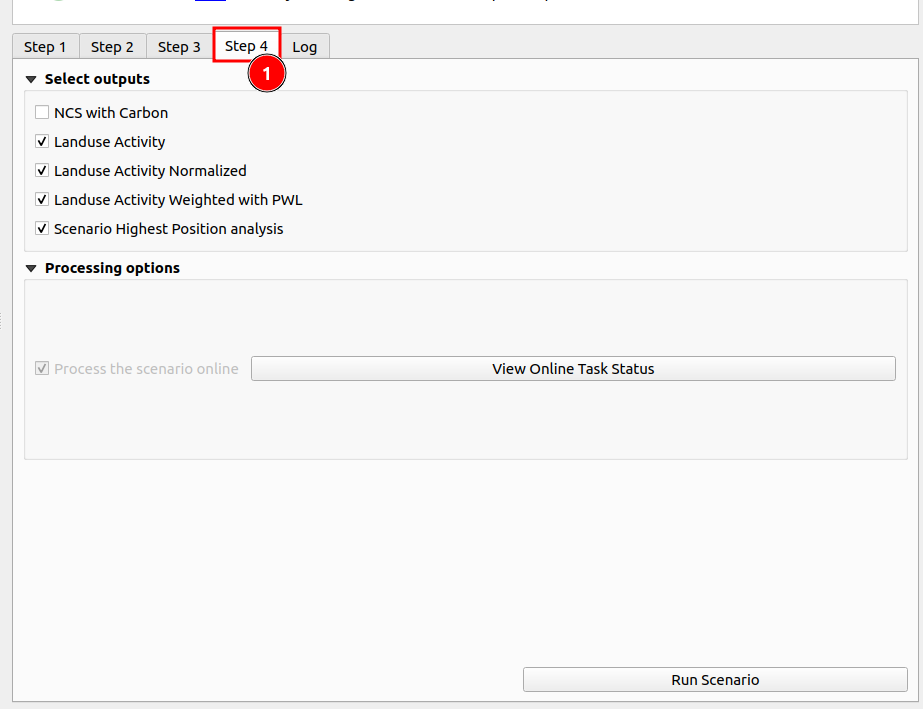
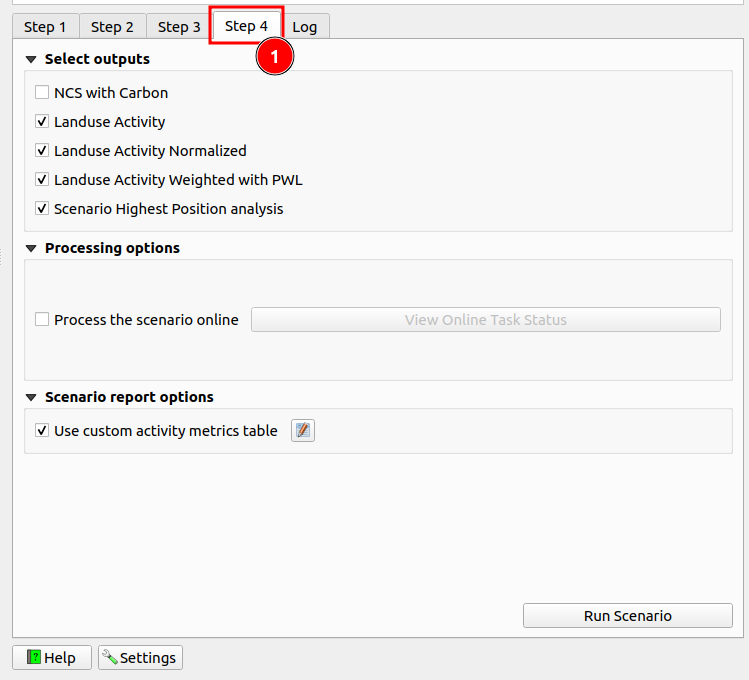
Add metrics docs

diff --git a/docs/user/manual/step-4.md b/docs/user/manual/step-4.md
@@ -48,7 +48,170 @@ license: This program is free software; you can redistribute it and/or modify it
    
     *If the user has previously selected `Online defaults`, this option will be selected automatically.*
 
-4. **Run Scenario:** 
+4. **Scenario report options:** Below are the benefits of the scenario report options.
+
+    * The Metrics Generator enables plugin users to incorporate additional metrics or calculations for each activity. It includes automated expressions that assist in calculating measures such as irrecoverable carbon, financial metrics like the net present value (NPV) of each activity, and other weighting measures such as jobs per hectare.
+
+    * The tool leverages the full functionality of the expression builder, allowing users to create fully customised expressions based on the available project variables.
+
+    * The Expression Builder within the Metrics Generator has been enhanced with a CPLUS library, which offers automated calculations for irrecoverable carbon, PWL measures, and NPV. These features come with helpful guidance for their use. It is also important to reference the variables list when creating custom options.
+
+    >Note: Please note that expressions can be applied on a column-by-column basis or can be cell-specific, providing full granularity for the measures and metrics associated with each activity.
+
+    ![Scenario Reports Options](./img/step-4-7.png)
+
+    1 **Use custom activity metrics table:** Users must check the checkbox to enable this option. After doing so, they need to click on the ![Builder Icon](./img/step-4-8.png) icon to access the metrics table. 
+
+    Users are required to follow these steps to create a custom activity metrics table.
+
+     **Step 1:**
+
+    ![Activity Metrics Wizard](./img/step-4-9.png)
+
+    1 **x:** Close the wizard.
+
+    2 **Help:** Provides the qgis help documentation.
+
+    3 **Back:** Go back to the previous step (Disabled in the first step).
+
+    4 **Next:** Proceed to the next step.
+
+    5 **Cancel:** Cancel the current operation.
+
+    **Step 2:**
+
+    ![Activity Metrics Wizard 2](./img/step-4-10.png)
+
+    1 **Columns:** Users can add or remove columns from the table.
+
+    * **![Add Column](./img/step-4-11.png):** Allows users to add column to the table.
+
+        ![Set Column Name](./img/step-4-12.png)
+
+        * **x:** Close the dialog box.
+        * **Input Field:** Users are required to enter the column name in this input field.
+        * **Cancel:** Cancel the process.
+        * **OK:** Users can complete the add column process by clicking on this button. If users click on this button without filling the column name then the process will be complete without any column being added.
+
+            ![Column Table 1](./img/step-4-14.png)
+        
+        * If users fill the column name which is already available in the table then the users will encountered with the error `There is already existing column name`.
+
+            ![Duplicate Column Error](./img/step-4-13.png)
+
+    * **![Remove Column](./img/step-4-15.png):** Allows users to remove column from the table. Users are required to select the column which they want to remove from the table and then click on this button to remove it from the table.
+
+        ![Column Table 2](./img/step-4-16.png)
+
+    * **![Up](./img/step-4-17.png) and ![Down](./img/step-4-18.png):** Allows users to reorder the columns in the table. Select the column from the table and then click on the either any option to reorder the column.
+
+    ![Reorder Column](./img/step-4-19.png)
+
+    2 **Properties:** This contains the properties of the column.
+    
+    ![Properties](./img/step-4-20.png) 
+
+    * **Header label:** The default header name is based on the selected column. Users can change it to any name they prefer, but the field must be filled in. If the `Header label` is empty then the users will encounter with the error `header label is empty`.
+
+        ![Empty Header Label Error](./img/step-4-21.png) 
+    
+    * **Metric:** Users can select the metric from the dropdown list. User can clear the metric filed by clicking on the `x` mark available inside the input field and can add their own custom metric.
+
+        ![Metric Dropdown](./img/step-4-22.png) 
+
+    * **Create Custom Metric:** Users can create their own custom metric by clicking on the `ε epsilon` button located at the right side of the `Metric` input field.
+
+        ![Epsilon button](./img/step-4-23.png) 
+
+        * This will open the `Column Expression Builder` dialog box.
+
+        ![Column Expression Builder](./img/step-4-24.png)
+
+        1 **Expression:** Users can access the expression tab by clicking here.
+
+        2 **Input Area:** User can enter the expression in this input area.
+
+        3 **Operators and symbols:** Users can access the operators and symbols from here.
+
+        4 **Functions:** Users can choose the function that their expression is related to.
+
+        5 **Details Section:** This section shows the details of the expression like how users can fill the expression, what are the available arguments and operators etc.
+
+        * For Example:
+
+            ![Column Expression Builder 1](./img/step-4-25.png)
+
+            1 **Input Area:** Contains the expression we have entered.
+
+            2 **Functions:** For example, we have selected the `CASE` from `Conditionals`.
+
+            3 **Details Section:** This section shows the details of the expression like how users can fill the expression, what are the available arguments and operators etc.
+
+            4 **Preview:** This section displays the feature details. In our case, we have entered the incorrect input without following the proper syntax, resulting in an error in the preview.
+
+        * After filling all the details users are required to click on the `OK` button to complete the process or they can click on the `Cancel` button to cancel the process.
+
+        * When users click on the `Cancel` button a pop up dialog box will appear asking for confirmation to cancel the process.
+
+            ![Expression Edited](./img/step-4-36.png)
+
+            * **✅:** Users can check this checkbox to remember their choice and avoid showing this message again in the future.
+
+            * **No:** Users can click on the `No` button to go back to the editing the process.
+
+            * **Discard changes:** Users can click on this button to complete the cancel process. This will discard the changes and close the window.
+
+    3 **Formatting:** This contains the formatting options for the column.
+
+    ![Formatting](./img/step-4-26.png)
+
+    * **Horizontal alignment:** Users can select the horizontal alignment of the column from the dropdown list, choosing between left, center, right, or justify alignment.
+
+    * **Format as number:** Users are required to check the checkbox to use this option, then users will be use the `Customise...` button to customise the number format.
+
+        ![Number Formatter ](./img/step-4-27.png)
+
+        1 **Number Format:** Users can use this button to go back to the previous window.
+
+        2 **Category:** Users can select the category of the number format from the dropdown list.
+
+        ![Formatting Category](./img/step-4-28.png)
+
+        3 **Format:** Users can select the format of the number from the dropdown list. (This field varies depending on the selected category.)
+
+        4 **Decimal places:** Users can enter the number of decimal places to be displayed. (This field varies depending on the selected category.)
+
+        5 Show trailing zeros: Users can select this checkbox to display trailing zeros. (This field varies depending on the selected category.)
+
+        6 **Sample:** Users can see the sample of the number format selected.
+
+    **Step 3:**
+    
+    ![Activity Metrics Wizard 3](./img/step-4-29.png)
+
+    1 **Customise activity metric:** Checking this checkbox allows users to customise the metric of a specific cell.
+
+    2 **Customise cell metric:** Double-clicking on a cell converts it into a dropdown menu. Users can then select the `<Cell metrics>` option from the menu, enabling them to customise the cell metric. 
+
+    ![Cell Metric Dropdown Menu](./img/step-4-30.png)
+
+    * This will open the `Activity Expression Builder` window.
+
+        ![Activity Expression Builder](./img/step-4-31.png)
+
+    Please check the `Step 2` to know more about how to customise the metric.
+
+    * If users try to proceed without defining the `<Cell-metric>` then users will encountered with an error message.
+
+        ![Undefined Error](./img/step-4-32.png)
+
+    **Step 4:**
+
+    This is the last step where user review all the columns and metrics they have defined. After clicking on the `Finish` button will complete the process and redirected to the `Qgis plugin Step 4` from where users can generate the report with the `custom activity metrics table`.
+
+    ![Activity Metrics Wizard 4](./img/step-4-33.png)
+
+5. **Run Scenario:** 
 
     After checking or unchecking the checkbox, click on the `Run Scenario` button to execute the scenario and generate the report. 
 
@@ -80,5 +243,19 @@ license: This program is free software; you can redistribute it and/or modify it
     Click on the `View Task Online button` to view the task status.
 
     ![Processing Dialog](img/step-4-5.png) 
+
+## Report without custom metrics table
+
+* Users can see in the report there is no custom metrics table.
+
+![Report Without Custom Metrics Table ](img/step-4-35.png)
+
+## Report with custom metrics table
+
+* Users can see in the report that the custom metrics table is included.
+
+![Custom Metrics Table Report](img/step-4-34.png)
+
+
 
 Click [here](logs.md) to explore the log section.

diff --git a/docs/user/guide/step-4.md b/docs/user/guide/step-4.md
@@ -18,13 +18,13 @@ Click on the 1⃣ `Step 4` option, to go to Step 4.
 
 >NOTE: User need to register and login with a Trends.Earth account to use the online API for processing with CPLUS.
 
-## Saving Outputs
+## Saving outputs
 
 **Saving Outputs:** In `Step 4`, choose which results you want to save. Each option represents data for your report. Select an option to save it to your computer for later use. Not selecting an option means it is only available for your current session. This helps optimise memory usage. Choose wisely to make your computer run more efficiently!
 
 ![Saving Outputs](./img/step4-2.png)
 
-## Processing Options
+## Processing options
 
 **Process the scenario online:** By default, this option is off. When selected, the scenario is sent to a remote server via the Internet for processing. This enables real-time analysis using the server's resources. It is useful for quick results or complex data that may strain local devices. However, it needs a stable internet connection.
 
@@ -32,11 +32,127 @@ Click on the 1⃣ `Step 4` option, to go to Step 4.
 
 If `Online defaults` is choosen previously then this option will be automatically selected.
 
+## Scenario report  options
+
+Benefits of custom activity metrics table:
+
+* The Metrics Generator enables plugin users to incorporate additional metrics or calculations for each activity. It includes automated expressions that assist in calculating measures such as irrecoverable carbon, financial metrics like the net present value (NPV) of each activity, and other weighting measures such as jobs per hectare.
+
+* The tool leverages the full functionality of the expression builder, allowing users to create fully customised expressions based on the available project variables.
+
+* The Expression Builder within the Metrics Generator has been enhanced with a CPLUS library, which offers automated calculations for irrecoverable carbon, PWL measures, and NPV. These features come with helpful guidance for their use. It is also important to reference the variables list when creating custom options.
+
+>Note: Please note that expressions can be applied on a column-by-column basis or can be cell-specific, providing full granularity for the measures and metrics associated with each activity.
+
+### How to use custom activity metrics table?
+
+To use the `custom activity metrics table`, you need to check the 1⃣ `checkbox`, after which you can access the 2⃣ `edit` option which allows you to create custom metrics table.
+
+![Scenario Report Options](./img/step4-9.png)
+
+After clicking on the edit option user will receive the following window.
+
+![Custom Metrics Table](./img/step4-10.png)
+
+* You can follow these steps to create the custom metrics table:
+
+#### Step 1:
+
+The first step in creating the custom metrics table provides an 1⃣ `example` demonstrating that you can use different expressions for each cell. It also includes a 2⃣ `Next` button, which allows you to proceed to the next step, and a 3⃣ `Cancel` button, which enables you to exit the process.
+
+![Activity Metrics Wizard 1](./img/step4-11.png)
+
+#### Step 2:
+
+* This step allow you to add 1⃣ `Columns` and specify their corresponding 2⃣ `Properties`.
+
+![Activity Metrics Wizard 2](./img/step4-12.png)
+
+* Columns
+    * Add Column 
+
+        - Click on the ![Add Icon](./img/step4-13.png) icon to add a new column. This will open a `Set Column Name` dialog box where you can enter the name of the column.
+
+        - Enter the column name and click on the `OK` button to add it to the `Columns` table.
+
+            ![Set Column Name](./img/step4-14.png)
+
+        - If the column name already exists you will receive the following error.
+
+            ![Duplicate Column Name](./img/step4-15.png)
+
+    * Remove Column
+
+        - Click on the ![Remove Icon](./img/step4-16.png) icon to remove the selected column.
+
+    * Change Column Order
+
+        - Click on the ![Move Up Icon](./img/step4-17.png) icon to move the selected column up in the list and click on the ![Move Down Icon](./img/step4-18.png) icon to move the selected column down in the list.
+
+* Properties
+
+    * **Header label:** The default header name is based on the selected column. You can change it to any name you prefer, but the field must be filled in. If the Header label is empty, you will encounter the error `header label is empty`.
+
+        ![Header Label Empty](./img/step4-19.png)
+
+    * **Metric:** Metric is the expression that will be used to calculate the value of the column. You can also define a custom metric by clicking on the ![Epsilon Icon](./img/step4-20.png) button.
+
+        * Click on the 1⃣ `Expression` tab to access this window.
+
+        * Choose your desired expression from 3⃣ `list` or you can search it by entering the expression name in the 2⃣ `Search` field.
+
+        * You are required to follow the syntax of the expression as shown in the 4⃣ `Detail Section`.
+
+        * Define your expression in the 5⃣ `Input field`. You can use the 6⃣ `operators and symbols` provided to structure your expression.
+
+            ![Column Expression Builder](./img/step4-21.png)
+
+        * If any case you have entered wrong expression you will receive the following error.
+            
+            ![Invalid Expression](./img/step4-22.png)
+
+        * After defining your expression, click on the `OK` button to save it otherwise click on the `Cancel` button to cancel the process. This wil open a confirmation dialog box.
+
+        * Check the 1⃣ ✅ `checkbox` to save your preference and prevent this message from appearing again in the future. Click 2⃣ `No` to cancel the current process or 3⃣ `Discard changes` to finalise the cancellation process. Clicking on the 3⃣ `Discard changes` will remove all the changes you made in the current process.
+
+            ![Confirmation Dialog Box](./img/step4-30.png)
+
+    * Formatting 
+
+        * Click on the 1⃣ `Dropdown `to choose the alignment for the column data. To format the data as a number, check the 2⃣ `Format as number` checkbox. Once selected, you will be able to 3⃣ `Customise` the data. After clicking on the 3⃣ `Customise` new tab will open.
+
+            ![Formatting](./img/step4-23.png)
+
+            * Click on the 1⃣ `Icon` to go back. Select the number category from the 2⃣ `Category` dropdown menu, then enter the desired number of decimal places in the 3⃣ `Decimal places` input field. Check the information 4⃣ `Checkboxes` based on your preferences, and choose the scaling value from the 5⃣ `Dropdown` menu. After selecting your options, the sample output will be displayed at 6⃣ `Sample`.
+            ![Formatting 1](./img/step4-24.png)
+
+#### Step 3:
+
+* Click on the 1⃣ `Customise activity metric` to define the different metric for particular cell. Double click on the 2⃣ `Cell` this will convert it into the dropdown menu.
+
+    ![Activity Metrics Wizard 3](./img/step4-25.png)
+
+* To define the metric for a specific column, select `<Cell metric>` from the cell dropdown menu. This allows you to add a metric for that cell.
+
+    ![Area](./img/step4-26.png)
+
+    After choosing the `<Cell metric>`  the `Activity Column Expression Builder` window will open. Please checkout the [Step 2](#step-2) to know how to use `Activity Column Expression Builder`.
+
+* If you select `<Cell metric>` and do not define a metric for the cell, you will encounter the following 1⃣ `error`.
+
+    ![Undefined Error](./img/step4-27.png)
+
+#### Step 4:
+
+This step allows you to review and save the metrics configuration to be used in the scenario analysis report. After verifying the 1⃣ `metrics configuration`, click on the 2⃣ `Finish` button to save the configuration.
+
+![Activity Metrics Wizard 4](./img/step4-28.png)
+
 ## Run Scenario
 
 **Run Scenario:** Click on the `Run Scenario` button to execute the scenario and generate the report.A  progress bar will appear, showing the status of the processing.
-![Run Scenario](./img/step4-4.png)
 
+![Run Scenario](./img/step4-4.png)
 
 **Scenario Progress Dialog:** This dialog box shows the progress of the scenario execution. 
 
@@ -60,12 +176,19 @@ Click on the `View Report` button, it will display a dropdown menu to view the r
 
 ![View Report Dialog](img/step4-8.png)
 
+
 1. **Layout designer**: Opens the report in the QGIS layout designer.
    
 ![Layout Designer](img/step4-layout-designer.png)
 
 2. **Open PDF**: Opens the created PDF.
 
+### Report without the custom activity metrics table
+
 ![Report Pdf](img/step4-report-pdf.png)
+
+### Report with the custom activity metrics table
+
+![Report With Custom Activity Metrics Table](./img/step4-29.png)
 
 Click [here](logs.md) to explore the log section.
